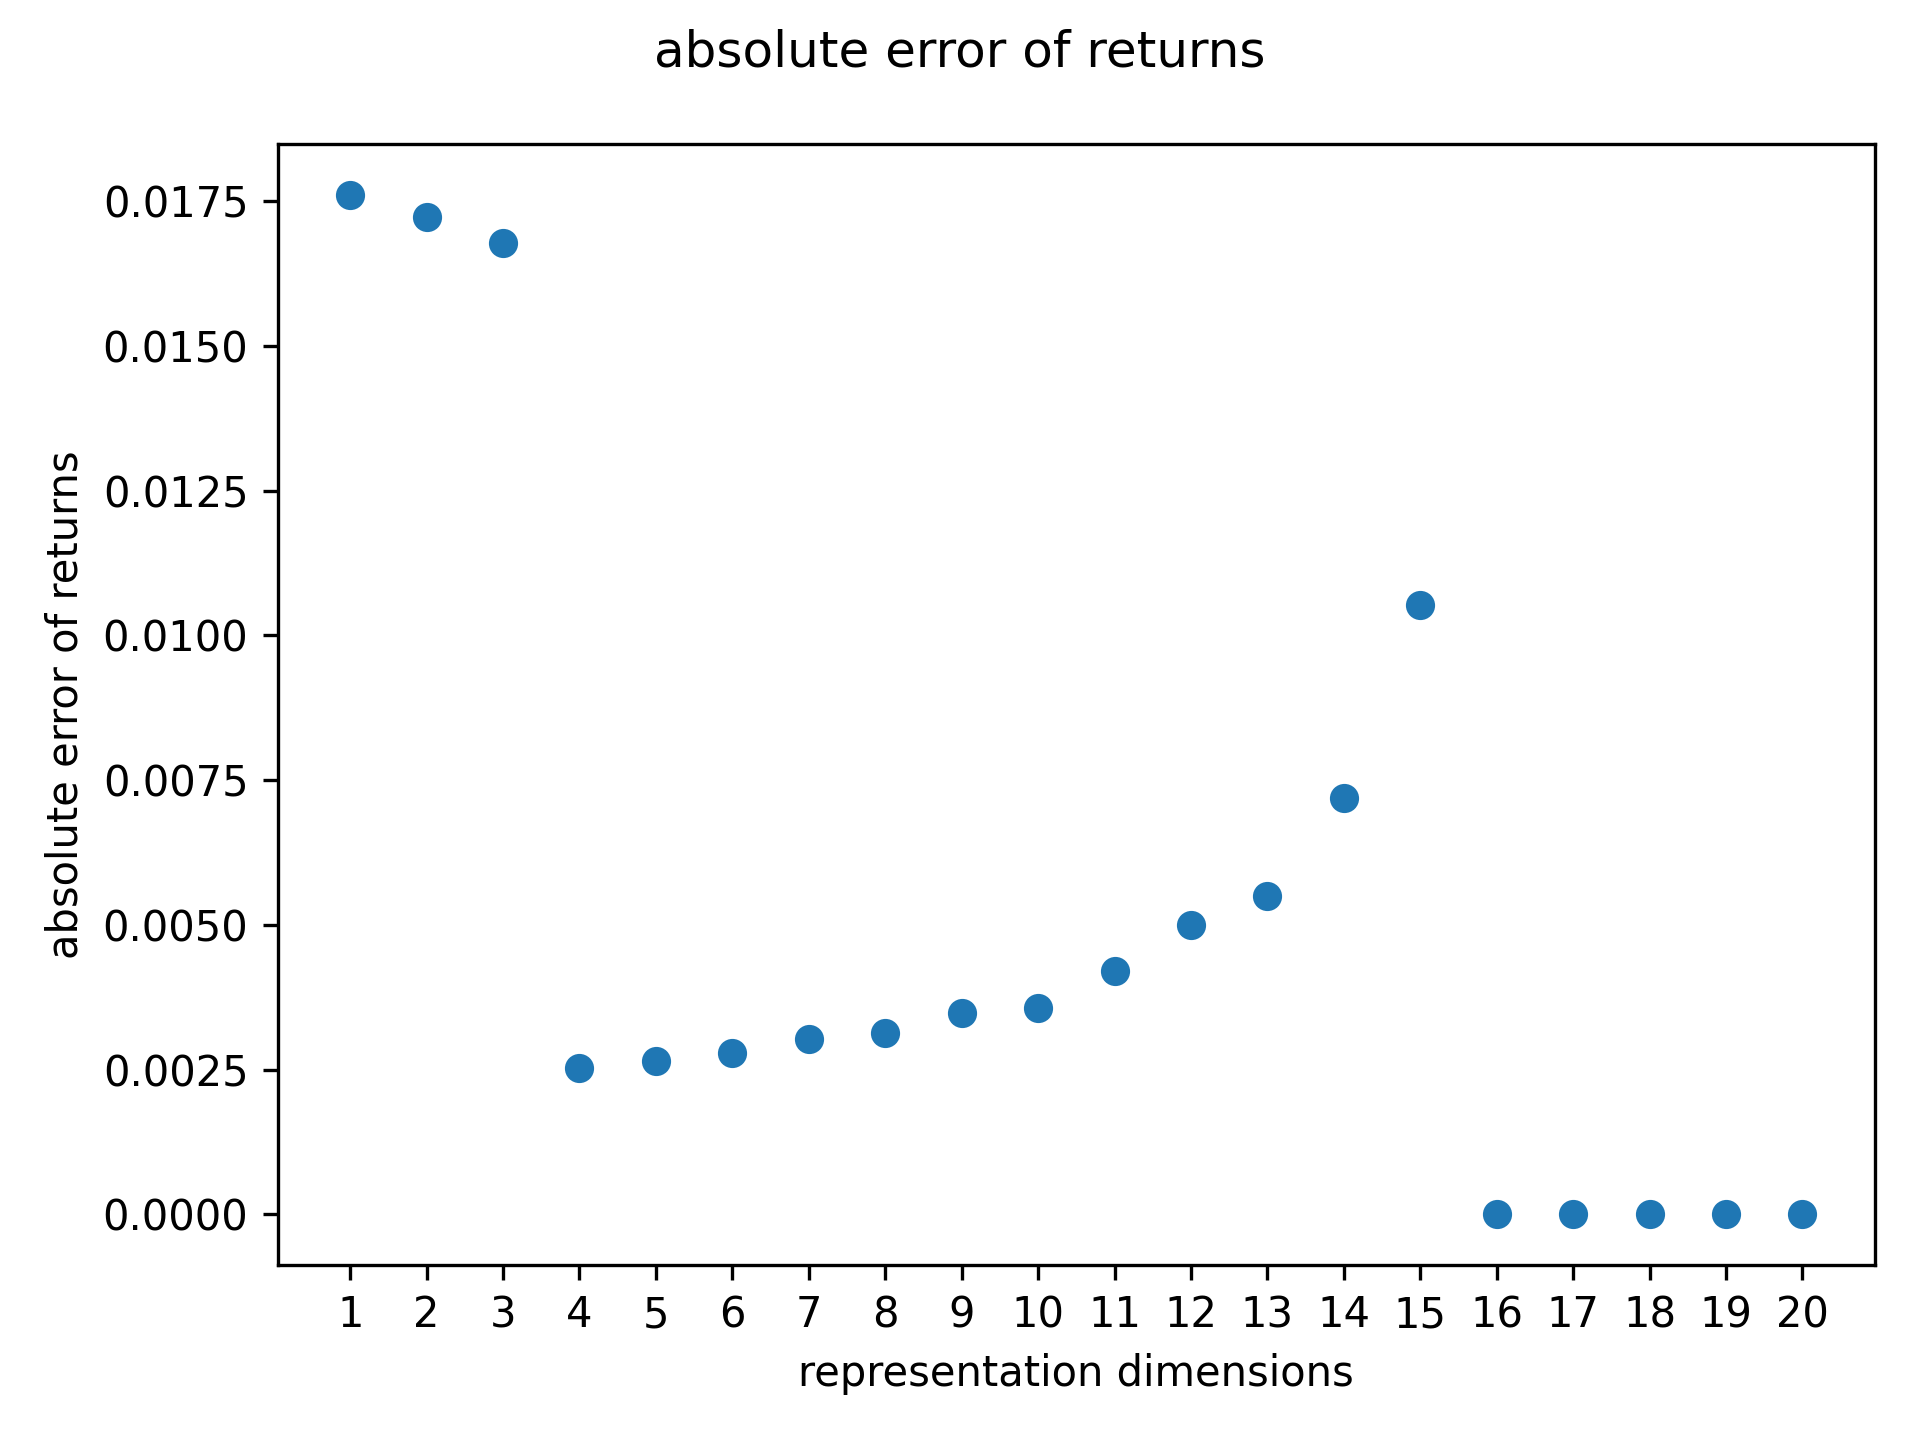
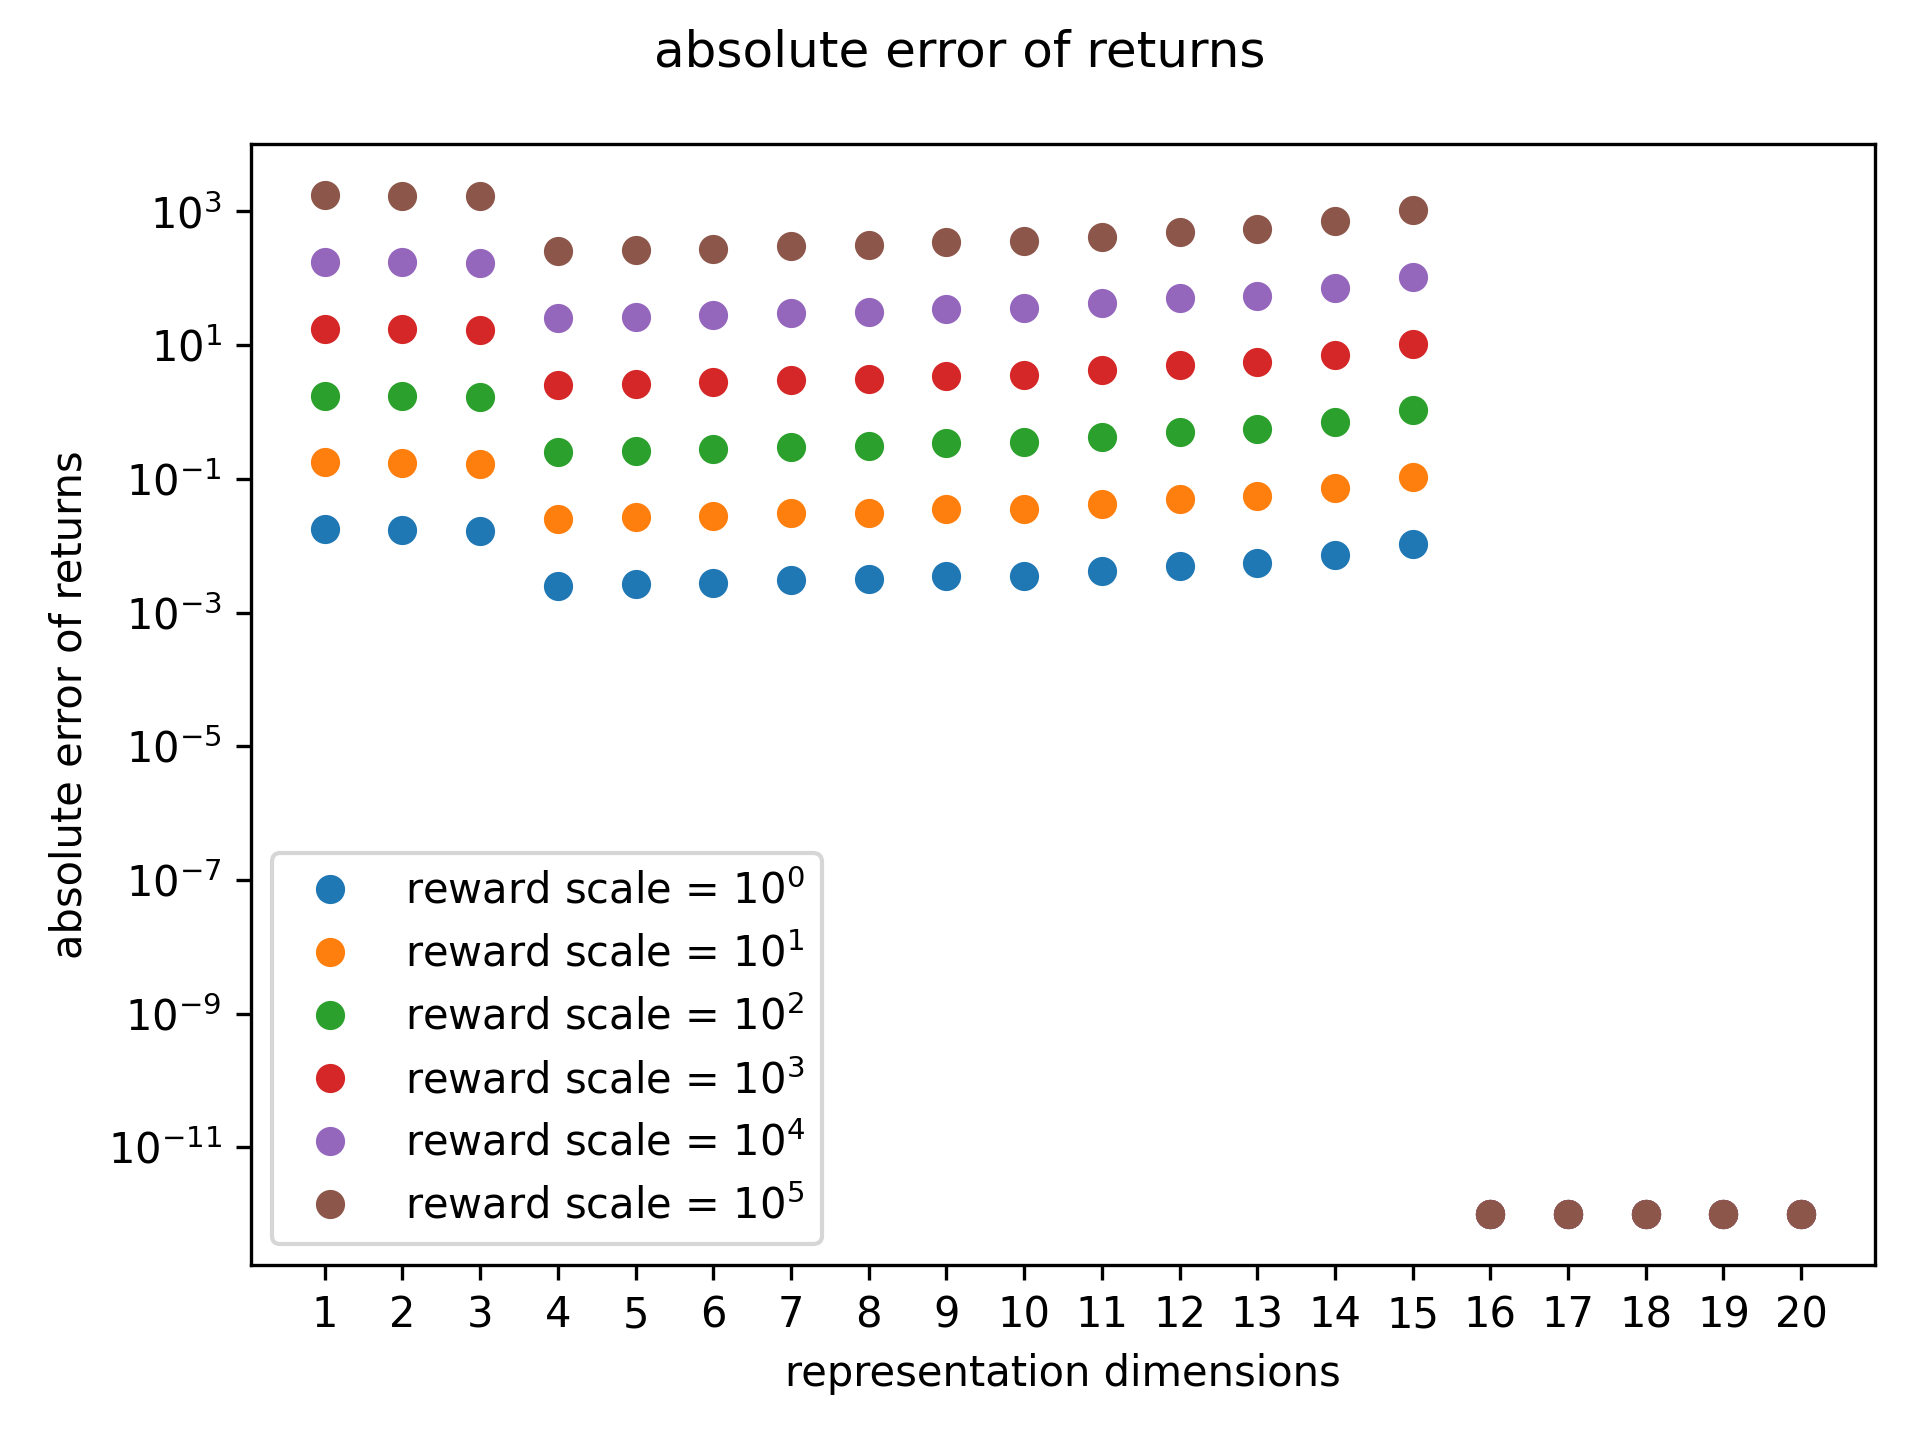
update counter_examples/test_behavioral_occ_measure_vi_svd.py

diff --git a/counter_examples/test_behavioral_occ_measure_vi_svd.py b/counter_examples/test_behavioral_occ_measure_vi_svd.py
@@ -2,6 +2,7 @@ from collections import defaultdict
 import tqdm
 import copy
 import matplotlib.pyplot as plt
+import matplotlib.ticker as mticker
 import scipy
 from scipy.ndimage import gaussian_filter1d
 
@@ -119,77 +120,103 @@ def main(_):
     behavioral_policy = jnp.ones([FLAGS.num_observations, FLAGS.num_actions], dtype=jnp.float64) / FLAGS.num_actions
 
     metrics = defaultdict(list)
-    for repr_dim in list(range(1, 20 + 1)):  # Do we need to consider repr_dim > |S||A|
-        gt_fb_reprs = compute_fb_reprs(behavioral_policy, transition_probs_sa, repr_dim)
+    # reward_scales = [1.0, 5.0, 10.0, 20.0]
+    reward_scales = [1, 10, 100, 1_000, 10_000, 100_000]
+    repr_dims = list(range(1, 20 + 1))
+    for reward_scale in reward_scales:
+        avg_q_beta_abs_errs = []
+        ret_beta_abs_errs = []
+        for repr_dim in repr_dims:  # Do we need to consider repr_dim > |S||A|
+            gt_fb_reprs = compute_fb_reprs(behavioral_policy, transition_probs_sa, repr_dim)
 
-        neg_marg_sa = gt_fb_reprs['neg_marg_sa']
-        forward_reprs = gt_fb_reprs['forward_reprs']
-        backward_reprs = gt_fb_reprs['backward_reprs']
-        backward_reprs_flat = backward_reprs.reshape(
-            FLAGS.num_observations * FLAGS.num_actions,
-            min(repr_dim, FLAGS.num_observations * FLAGS.num_actions),
-        )
-
-        null_basis = scipy.linalg.null_space(np.asarray(backward_reprs_flat).T).T
-        num_null_basis = null_basis.shape[0]
-
-        print("num_null_basis = {}".format(num_null_basis))
-        if num_null_basis > 0:
-            adversarial_rewards_flat = FLAGS.reward_scale * null_basis
-        else:
-            rng, zero_reward_rng = jax.random.split(rng)
-            near_zero_rewards = jax.random.uniform(
-                zero_reward_rng,
-                shape=(1, FLAGS.num_observations * FLAGS.num_actions),
-                minval=-jnp.finfo(jnp.float64).tiny * 10,
-                maxval=jnp.finfo(jnp.float64).tiny * 10,
-                dtype=jnp.float64
+            neg_marg_sa = gt_fb_reprs['neg_marg_sa']
+            forward_reprs = gt_fb_reprs['forward_reprs']
+            backward_reprs = gt_fb_reprs['backward_reprs']
+            backward_reprs_flat = backward_reprs.reshape(
+                FLAGS.num_observations * FLAGS.num_actions,
+                min(repr_dim, FLAGS.num_observations * FLAGS.num_actions),
             )
-            adversarial_rewards_flat = FLAGS.reward_scale * near_zero_rewards
-            num_null_basis = 1
 
-        adversarial_rewards = adversarial_rewards_flat.reshape(
-            num_null_basis, FLAGS.num_observations, FLAGS.num_actions)
-        reward_latents_flat = jnp.einsum(
-            'ij,ki->kj',
-            backward_reprs_flat * neg_marg_sa.reshape(-1)[..., None],
-            adversarial_rewards_flat,
-        )
-        reward_latents = reward_latents_flat.reshape(
-            num_null_basis,
-            min(repr_dim, FLAGS.num_observations * FLAGS.num_actions),
-        )
-        q_beta_ests = jnp.einsum('ijk,lk->lij', forward_reprs, reward_latents)
-        q_beta_gts = jax.vmap(compute_qs, in_axes=(None, 0, None))(
-            behavioral_policy, adversarial_rewards, transition_probs_sa)
+            null_basis = scipy.linalg.null_space(np.asarray(backward_reprs_flat).T).T
+            num_null_basis = null_basis.shape[0]
 
-        ret_beta_ests = jnp.einsum('ij,j->i', q_beta_ests[:, FLAGS.initial_obs], behavioral_policy[FLAGS.initial_obs])
-        ret_beta_gts = jnp.einsum('ij,j->i', q_beta_gts[:, FLAGS.initial_obs], behavioral_policy[FLAGS.initial_obs])
+            print("num_null_basis = {}".format(num_null_basis))
+            if num_null_basis > 0:
+                adversarial_rewards_flat = reward_scale * null_basis
+            else:
+                rng, zero_reward_rng = jax.random.split(rng)
+                near_zero_rewards = jax.random.uniform(
+                    zero_reward_rng,
+                    shape=(1, FLAGS.num_observations * FLAGS.num_actions),
+                    minval=-jnp.finfo(jnp.float64).tiny * 10,
+                    maxval=jnp.finfo(jnp.float64).tiny * 10,
+                    dtype=jnp.float64
+                )
+                adversarial_rewards_flat = reward_scale * near_zero_rewards
+                num_null_basis = 1
 
-        avg_q_beta_abs_err = jnp.mean(jnp.abs(q_beta_gts - q_beta_ests))
-        ret_beta_abs_err = jnp.mean(jnp.abs(ret_beta_ests - ret_beta_gts))
+            adversarial_rewards = adversarial_rewards_flat.reshape(
+                num_null_basis, FLAGS.num_observations, FLAGS.num_actions)
+            reward_latents_flat = jnp.einsum(
+                'ij,ki->kj',
+                backward_reprs_flat * neg_marg_sa.reshape(-1)[..., None],
+                adversarial_rewards_flat,
+            )
+            reward_latents = reward_latents_flat.reshape(
+                num_null_basis,
+                min(repr_dim, FLAGS.num_observations * FLAGS.num_actions),
+            )
+            q_beta_ests = jnp.einsum('ijk,lk->lij', forward_reprs, reward_latents)
+            q_beta_gts = jax.vmap(compute_qs, in_axes=(None, 0, None))(
+                behavioral_policy, adversarial_rewards, transition_probs_sa)
 
-        if avg_q_beta_abs_err < 1e-12:
-            avg_q_beta_abs_err = 0.0
-        if ret_beta_abs_err < 1e-12:
-            ret_beta_abs_err = 0.0
+            ret_beta_ests = jnp.einsum('ij,j->i', q_beta_ests[:, FLAGS.initial_obs], behavioral_policy[FLAGS.initial_obs])
+            ret_beta_gts = jnp.einsum('ij,j->i', q_beta_gts[:, FLAGS.initial_obs], behavioral_policy[FLAGS.initial_obs])
 
-        print("repr_dim = {}, avg_q_beta_abs_err = {}, ret_beta_abs_err = {}".format(
-            repr_dim, avg_q_beta_abs_err, ret_beta_abs_err))
+            avg_q_beta_abs_err = jnp.mean(jnp.abs(q_beta_gts - q_beta_ests))
+            ret_beta_abs_err = jnp.mean(jnp.abs(ret_beta_ests - ret_beta_gts))
 
-        metrics['avg_q_beta_abs_err'].append([repr_dim, avg_q_beta_abs_err])
-        metrics['ret_beta_abs_err'].append([repr_dim, ret_beta_abs_err])
+            if avg_q_beta_abs_err < 1e-12:
+                avg_q_beta_abs_err = 1e-12
+            if ret_beta_abs_err < 1e-12:
+                ret_beta_abs_err = 1e-12
+
+            print("repr_dim = {}, avg_q_beta_abs_err = {}, ret_beta_abs_err = {}".format(
+                repr_dim, avg_q_beta_abs_err, ret_beta_abs_err))
+
+            # metrics['avg_q_beta_abs_err'].append([repr_dim, avg_q_beta_abs_err])
+            # metrics['ret_beta_abs_err'].append([repr_dim, ret_beta_abs_err])
+            avg_q_beta_abs_errs.append([repr_dim, avg_q_beta_abs_err])
+            ret_beta_abs_errs.append([repr_dim, ret_beta_abs_err])
+        metrics['avg_q_beta_abs_err'].append(avg_q_beta_abs_errs)
+        metrics['ret_beta_abs_err'].append(ret_beta_abs_errs)
 
     for k, v in metrics.items():
         metrics[k] = np.array(v)
 
     # plot figure: avg_q_beta_abs_err vs repr_dim
+    # sf = mticker.ScalarFormatter(useOffset=False, useMathText=True)
+    # fmt = mticker.FuncFormatter(lambda x, pos: "${}$".format(sf._formatSciNotation('%1.10e' % x)))
+
+    def sci(x, precision=0):
+        s = f"{x:.{precision}e}"
+        m, e = s.split("e")
+        if float(m) == 1.0:
+            return rf"$10^{{{int(e)}}}$"
+        else:
+            return rf"${m}\times10^{{{int(e)}}}$"
+
     f, ax = plt.subplots(nrows=1, ncols=1)
     v = metrics['avg_q_beta_abs_err']
-    ax.plot(v[:, 0], v[:, 1], 'o')
-    ax.set_xticks(v[:, 0])
+    for idx, reward_scale in enumerate(reward_scales):
+        ax.plot(v[idx, :, 0], v[idx, :, 1], 'o',
+                label=r'reward scale = {}'.format(sci(reward_scale)))
+    # ax.ticklabel_format(style='sci', axis='y', scilimits=(-10, 10))
+    ax.set_xticks(repr_dims)
+    ax.set_yscale('log')
     ax.set_xlabel('representation dimensions')
     ax.set_ylabel('absolute error of Q beta')
+    ax.legend()
     f.suptitle('absolute error of Q beta')
 
     f.tight_layout()
@@ -198,10 +225,15 @@ def main(_):
     # plot figure: ret_beta_abs_err vs repr_dim
     f, ax = plt.subplots(nrows=1, ncols=1)
     v = metrics['ret_beta_abs_err']
-    ax.plot(v[:, 0], v[:, 1], 'o')
-    ax.set_xticks(v[:, 0])
+    for idx, reward_scale in enumerate(reward_scales):
+        ax.plot(v[idx, :, 0], v[idx, :, 1], 'o',
+                label=r'reward scale = {}'.format(sci(reward_scale)))
+    # ax.ticklabel_format(style='sci', axis='y', scilimits=(-10, 10))
+    ax.set_xticks(repr_dims)
+    ax.set_yscale('log')
     ax.set_xlabel('representation dimensions')
     ax.set_ylabel('absolute error of returns')
+    ax.legend()
     f.suptitle('absolute error of returns')
 
     f.tight_layout()
